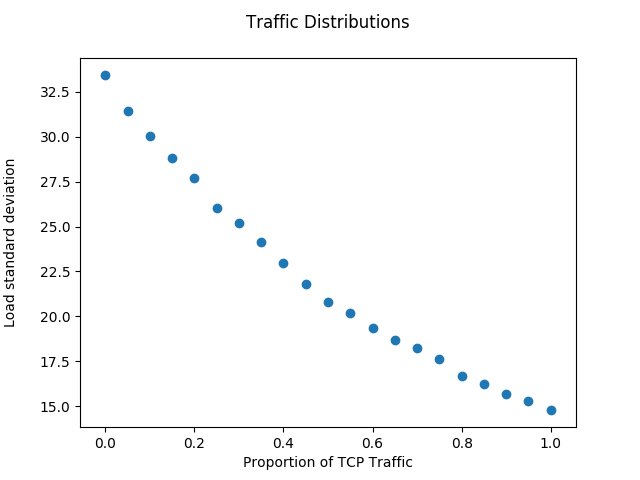
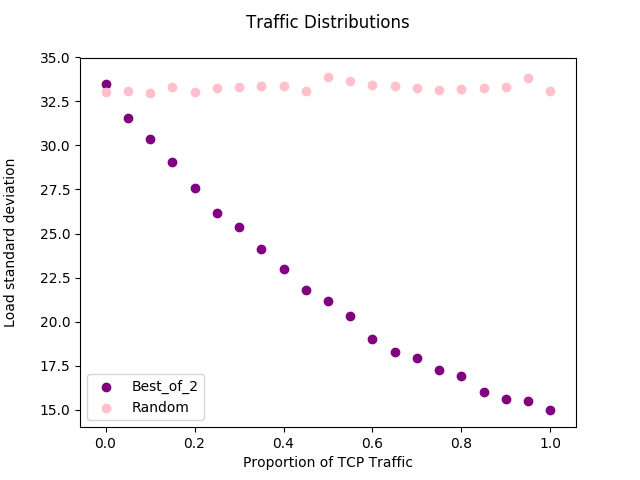
Added plotting of multiple categories

diff --git a/Scatterplot.py b/Scatterplot.py
@@ -1,21 +1,50 @@
 """
 Code for generating a scatterplot
 First three lines are plot title, x-axis label, y-axis label
-Following lines are of form: x y
+Following lines are of form: x y [optional_category]
 """
 import sys
 import matplotlib.pyplot as plt
+
+colors = ['purple', 'pink', 'cyan']
 
 fn = sys.argv[1]
 with open(fn) as f:
     lines = f.readlines()
     xs = []
     ys = []
+    cs = []
+    labels = []
+    colormap = {}
+    colorcount = 0
     for i in range(3, len(lines)):
         tokens = lines[i].split()
         xs.append(float(tokens[0]))
         ys.append(float(tokens[1]))
-    plt.scatter(xs, ys)
+        if len(tokens) > 2:
+            if(not tokens[2] in colormap):
+                colormap[tokens[2]] = colorcount
+                colorcount += 1
+                labels.append(tokens[2])
+            cs.append(colors[colormap[tokens[2]]])
+        else:
+            cs.append(colors[0])
+    print(colorcount)
+    if colorcount > 0:
+        fig, ax = plt.subplots()
+        for i in range(0, colorcount):
+            curx = []
+            cury = []
+            for j in range(0, len(xs)):
+                if cs[j] == colors[i]:
+                    curx.append(xs[j])
+                    cury.append(ys[j])
+            print(colors[i]+' '+labels[i]+' '+str(cury))
+            ax.scatter(curx, cury, c = colors[i], label = labels[i])
+        plt.legend()
+    else:
+        print('no categories')
+        plt.scatter(xs, ys, c = cs)
     plt.title(lines[0])
     plt.xlabel(lines[1])
     plt.ylabel(lines[2])

diff --git a/TrafficSimulator.java b/TrafficSimulator.java
@@ -36,7 +36,9 @@ static void testTCPProp() throws IOException
 		propTCP = cur;
 		System.out.println("Set TCP Proportion to " + String.format("%.2f", propTCP));
 		double res = simulate(it, numServers, 1, propTCP, numTrials);
-		out.println(cur+" "+res);
+		out.println(cur+" "+res+" "+"Best_of_2");
+		res = simulate(it, numServers, 0, propTCP, numTrials);
+		out.println(cur+" "+res+" "+"Random");
 	}
 	propTCP = tmp;
 	out.close();
